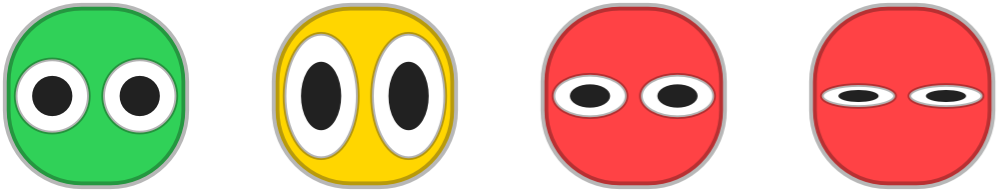
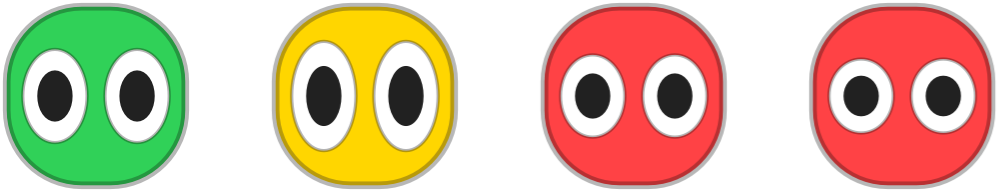
Mascot eyes are always a vertical oval that squishes with mood
Reverted to white eyes on a colored body, but the eye shape is now a vertical oval whose height varies by mood (tall when alert, more squished when stressed) and never becomes a circle. Tightened the height range so every state stays clearly visible. v1.2.1.

diff --git a/Sources/MascotIcon.swift b/Sources/MascotIcon.swift
@@ -17,11 +17,12 @@ struct EyePose {
 /// flat, >1 stretched tall). Everything else is off-limits — the face is just
 /// two circles, each with a circle inside.
 private func eyeHeightFactor(_ mood: Mood) -> CGFloat {
+    // Always > 1: the eyes stay a vertical oval, just more or less tall.
     switch mood {
-    case .alert:    return 1.70   // tall — wide awake
-    case .chill:    return 1.00   // round — relaxed
-    case .pressure: return 0.58   // squished — strained
-    case .stressed: return 0.30   // flat — drained
+    case .alert:    return 1.70   // tallest oval — wide awake
+    case .chill:    return 1.45   // tall oval — relaxed
+    case .pressure: return 1.28   // squished oval — strained
+    case .stressed: return 1.15   // most squished, still an oval — drained
     }
 }
 
@@ -45,7 +46,7 @@ private func drawMascot(color: NSColor, height: CGFloat, pose: EyePose, mood: Mo
     let inset = height * 0.035
     let rect = NSRect(x: inset, y: inset, width: height - inset * 2, height: height - inset * 2)
 
-    // Body: a soft rounded blob, filling most of the icon.
+    // Body: a soft rounded blob in the state color.
     let radius = rect.width * 0.42
     let body = NSBezierPath(roundedRect: rect, xRadius: radius, yRadius: radius)
     color.setFill()
@@ -54,10 +55,9 @@ private func drawMascot(color: NSColor, height: CGFloat, pose: EyePose, mood: Mo
     body.lineWidth = max(0.75, height * 0.04)
     body.stroke()
 
-    // Two big eyes that dominate the face. Mood squishes their height; that's
-    // the whole repertoire.
-    let eyeW = rect.width * 0.41
-    let gap  = rect.width * 0.08
+    // Two black-and-white eyes; mood sets how tall/squished (always a vertical oval).
+    let eyeW = rect.width * 0.36
+    let gap  = rect.width * 0.10
     let cy   = rect.minY + rect.height * 0.50
     let hf   = eyeHeightFactor(mood)
     drawEye(cx: rect.midX - gap / 2 - eyeW / 2, cy: cy, eyeW: eyeW, hf: hf, pose: pose)
@@ -72,16 +72,16 @@ private func drawEye(cx: CGFloat, cy: CGFloat, eyeW: CGFloat, hf: CGFloat, pose:
     let open = max(0, 1 - pose.blink)                  // blink is just a hard squish
     let eyeH = max(eyeW * 0.05, eyeW * hf * open)
 
-    // Eye (a circle, squished to an ellipse).
+    // Eye (white, a vertical oval squished by mood/blink).
     let eyeRect = NSRect(x: cx - eyeW / 2, y: cy - eyeH / 2, width: eyeW, height: eyeH)
-    let eye = NSBezierPath(ovalIn: eyeRect)
+    let path = NSBezierPath(ovalIn: eyeRect)
     NSColor.white.setFill()
-    eye.fill()
-    NSColor.black.withAlphaComponent(0.30).setStroke()   // thin edge so white reads on any body color
-    eye.lineWidth = max(0.5, eyeW * 0.05)
-    eye.stroke()
+    path.fill()
+    NSColor.black.withAlphaComponent(0.30).setStroke()   // thin edge so white reads on the body color
+    path.lineWidth = max(0.5, eyeW * 0.05)
+    path.stroke()
 
-    // Pupil (a circle inside, squished with the eye, moved by the glance).
+    // Pupil (dark, squished with the eye, moved by the glance).
     let pupilW = eyeW * 0.55
     let pupilH = pupilW * (eyeH / eyeW)
     let maxOffX = max(0, (eyeW - pupilW) / 2 * 0.82)